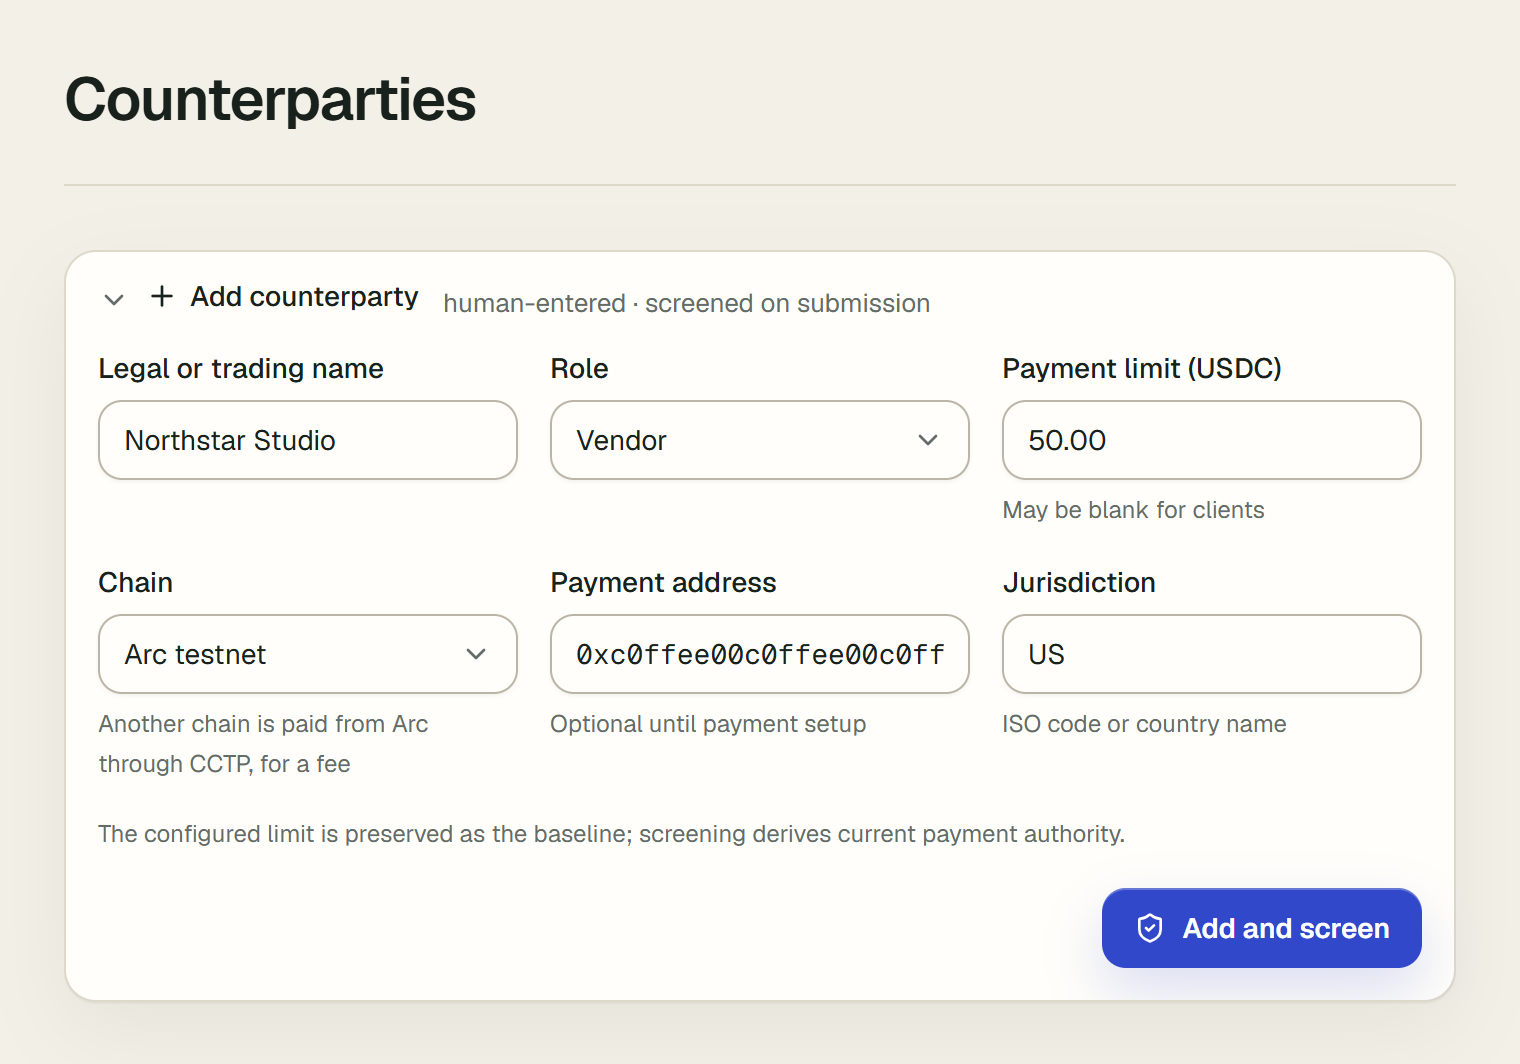
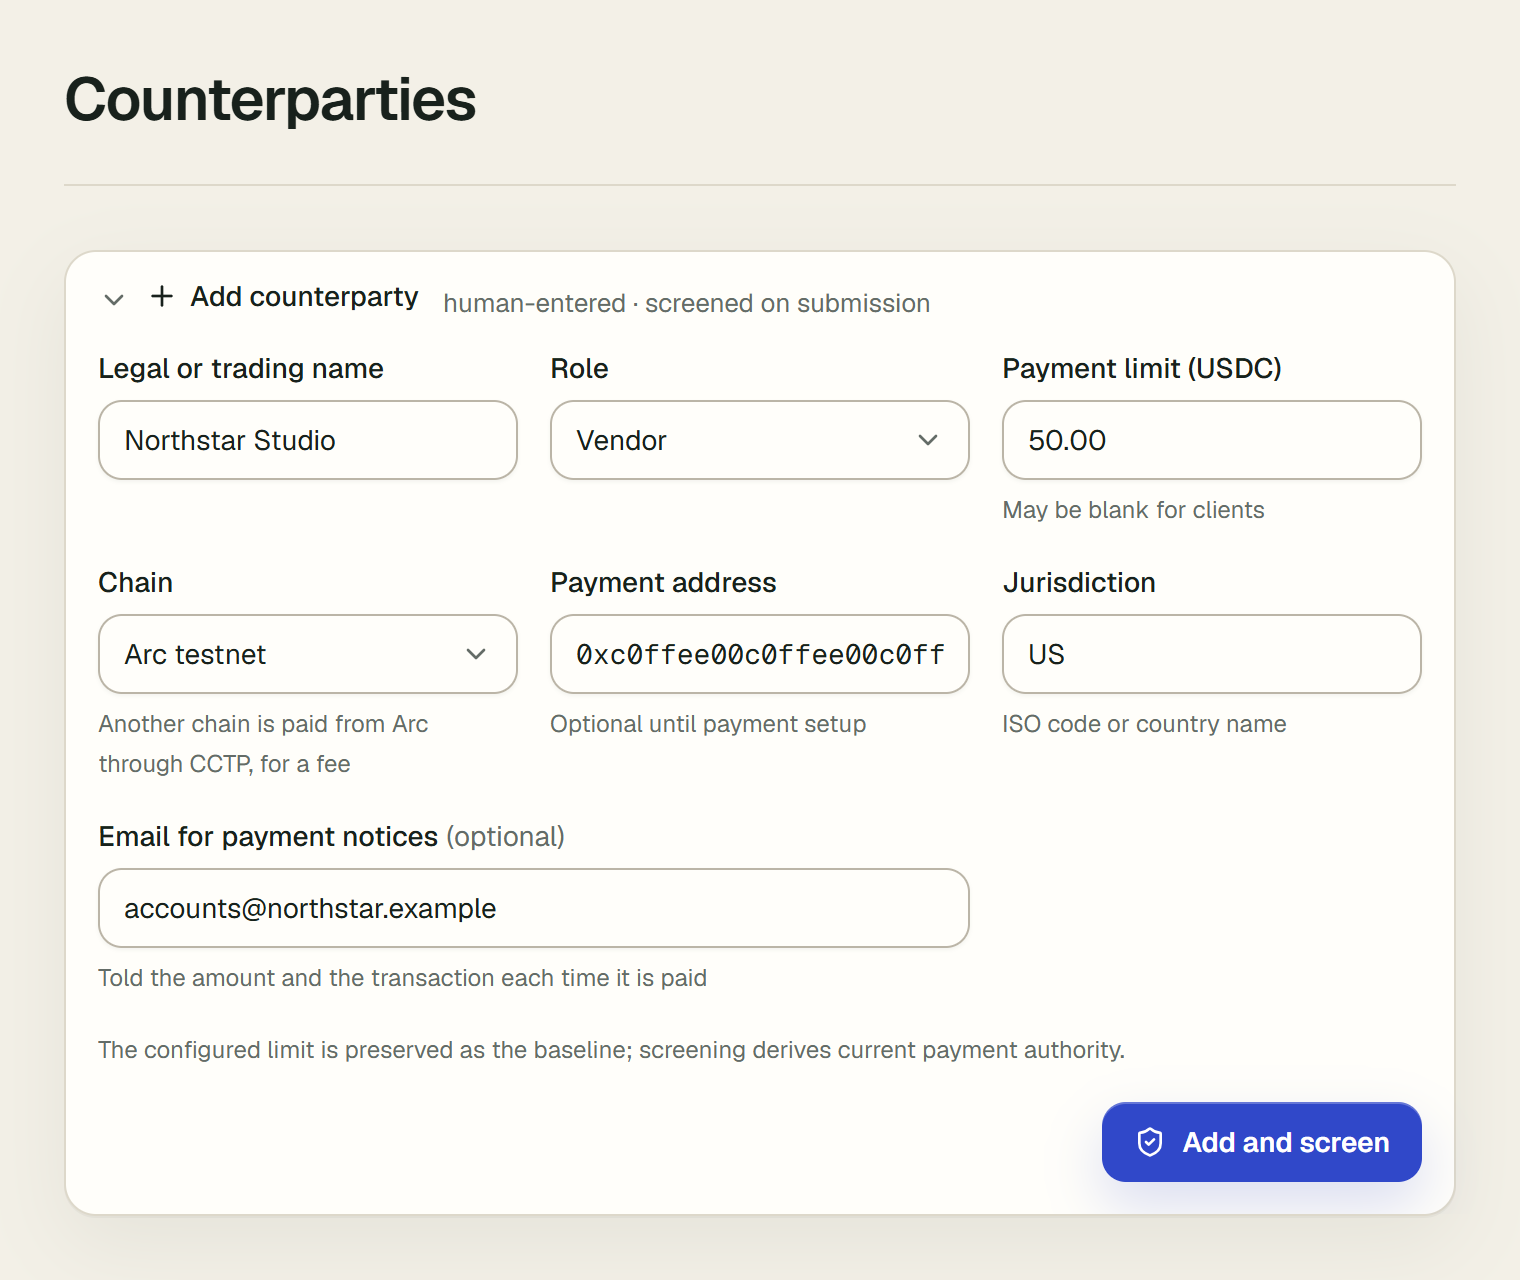
Document payment notices

diff --git a/tests/docs-guides.test.ts b/tests/docs-guides.test.ts
@@ -314,6 +314,10 @@ const QUOTED: Record<GuideSlug, Array<readonly [string, string]>> = {
     ["after details were added", "src/lib/agent-activity.ts"],
     ["as the written policy would", "src/lib/agent-activity.ts"],
     ["Checks passed:", "src/lib/agent-activity.ts"],
+    ["Email for payment notices", "src/components/intake/CounterpartyIntake.tsx"],
+    ["Payment notices", "src/app/o/[slug]/counterparties/page.tsx"],
+    ["View the transaction", "src/lib/email/payment-notice.ts"],
+    ["payment_notice_sent", "src/lib/payment-notices.ts"],
     ["code stopped it:", "src/lib/agent-activity.ts"],
     ["the agent's spending limit has no room today, and the agent pays it once there is", "src/lib/next-step.ts"],
     ["View on Arcscan", "src/components/AgentActivity.tsx"],
